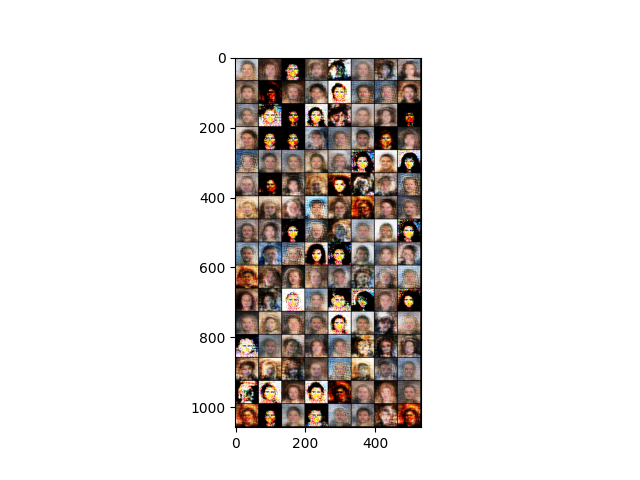
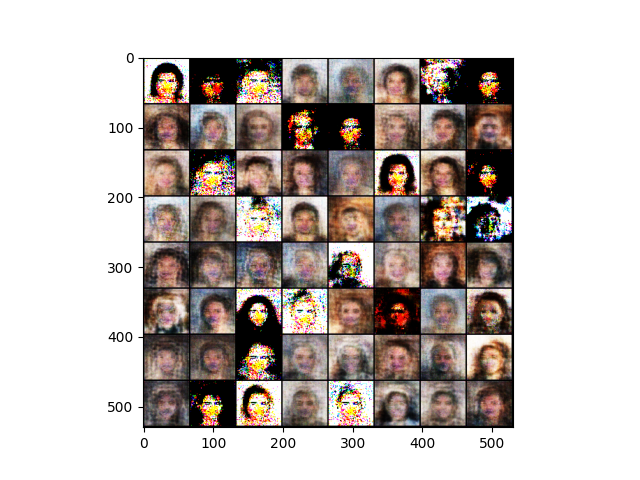
new images added, still running for more images for is scores later

diff --git a/conv_wgan64.py b/conv_wgan64.py
@@ -27,7 +27,7 @@ from dcgan_model import DCGAN
 from utils import load_dataset, get_dataloaders_celeba, set_all_seeds, set_deterministic
 from helper_train import train_gan_v1
 from helper_plotting import plot_multiple_training_losses, plot_multiple_training_accuracies, plot_accuracy_per_epoch, plot_multiple_training_accuracies
-from checkpoint import load_checkpoint
+# from checkpoint import load_checkpoint
 import matplotlib.pyplot as plt
 
 os.makedirs("images", exist_ok=True)
@@ -147,7 +147,7 @@ train_loader, valid_loader, test_loader = get_dataloaders_celeba(
 #     num_workers=20,
 # )
 
-report_dir = "report_ConvWgan64_CelebA"
+report_dir = "report_WGAN64_CelebA"
 os.makedirs(report_dir, exist_ok=True)
 
 # initialize as tensor, to avoid no .item() error
@@ -155,7 +155,7 @@ loss_real = torch.tensor(0.0)
 loss_fake = torch.tensor(0.0)
 loss_G = torch.tensor(0.0)
 
-num_epochs = 50
+# num_epochs = 50
 
 # generator and discriminator
 generator = Generator(100, img_shape).to(device)
@@ -175,7 +175,7 @@ os.makedirs("report_ConvWgan64_CelebA/images", exist_ok=True)
 # Path to save the models
 save_path = 'saves_ConvWgan64/'
 os.makedirs(save_path, exist_ok=True)
-checkpoint_path = 'saves_ConvWgan64/checkpoint_epoch_10.pth'  
+checkpoint_path = 'saves_ConvWgan64/checkpoint_epoch_299.pth'  
 
 def load_checkpoint(filepath, generator, discriminator, optimizer_G, optimizer_D):
     checkpoint = torch.load(filepath)
@@ -322,7 +322,7 @@ for epoch in range(start_epoch, opt.n_epochs):
     # generate and save fake images
     # if epoch+1 == 1:
     with torch.no_grad():
-            noise = torch.randn(128, opt.latent_dim).to(device)
+            noise = torch.randn(64, opt.latent_dim).to(device)
             fake = generator(noise).detach().cpu()
             img_grid = torchvision.utils.make_grid(fake, padding=2, normalize=True)
             plt.imshow(np.transpose(img_grid, (1, 2, 0)))

diff --git a/wgan64.py b/wgan64.py
@@ -165,7 +165,7 @@ os.makedirs(save_path, exist_ok=True)
 # TODO
 # each time, check what the latest saved epoch was and get it from the checkpoint, and then 
 # re-start training from that epoch
-checkpoint_path = 'saves_WGAN64/checkpoint_epoch_12.pth'  
+checkpoint_path = 'saves_WGAN64/checkpoint_epoch_104.pth'  
 
 def load_checkpoint(filepath, generator, discriminator, optimizer_G, optimizer_D):
     checkpoint = torch.load(filepath)
@@ -303,11 +303,11 @@ for epoch in range(start_epoch, opt.n_epochs):
 
     # generate and save fake images
     with torch.no_grad():
-        noise = torch.randn(128, opt.latent_dim).to(device)
+        noise = torch.randn(64, opt.latent_dim).to(device)
         fake = generator(noise).detach().cpu()
         img_grid = torchvision.utils.make_grid(fake, padding=2, normalize=True)
         plt.imshow(np.transpose(img_grid, (1, 2, 0)))
-        plt.savefig(os.path.join("report_WGAN64_CelebA", f"epoch_{epoch+1}_generated_images.png"))
+        plt.savefig(os.path.join("report_WGAN64_CelebA/images", f"epoch_{epoch+1}_generated_images.png"))
         plt.close()
 
     # define the directory path
